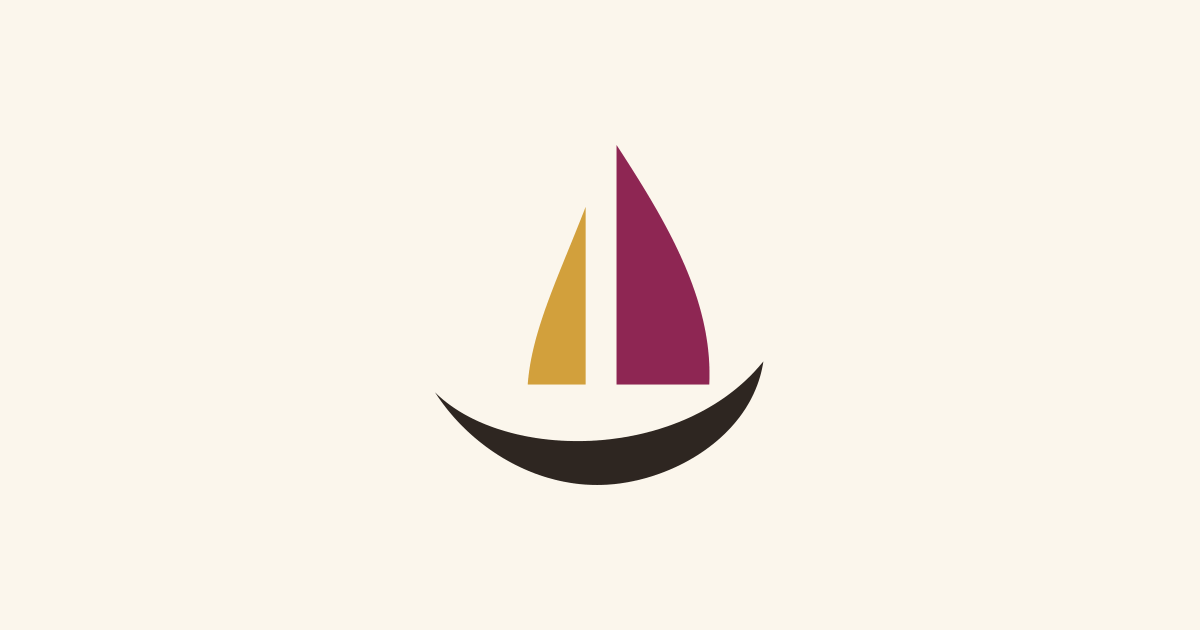
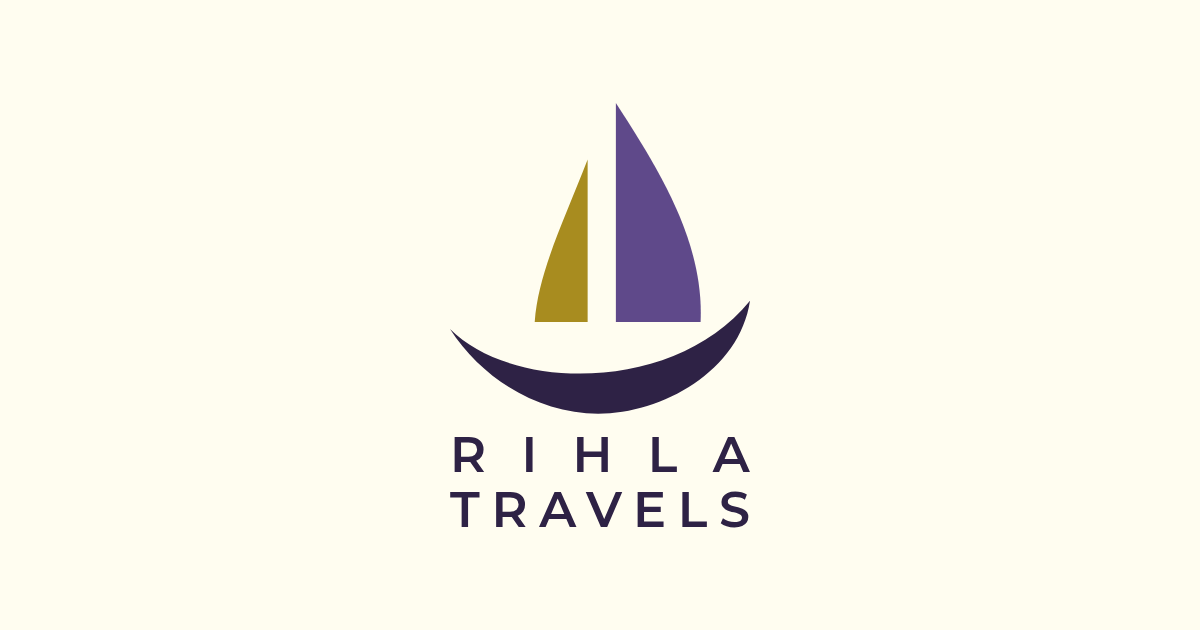
Bring the share card into the brand, and watch it from now on
public/images/rihla-social.png is what WhatsApp and Facebook render when
somebody pastes a link. For a business that sells through WhatsApp it is
seen far more often than the header, and it was still a wine-and-gold
dhoni on the retired cream: #8E2653, #D2A03C, #2E2621 on #FBF6EC, every
one of them a colour the rest of the site stopped using.

It is a raster, so the token swap could not reach it, and no test sampled
it. BrandColourTest scans text files and would never have seen it; the
only pixel-sampling test in the suite looks at the retired wordmark PNGs
for pre-rebrand blue and black. So this is the same shape as the offline
page and the stored banner colours — a copy of the palette somewhere the
sweep does not go — and the answer is the same one: a guard that reads
the actual bytes.

The card now carries the lockup rather than the bare mark. A preview
thumbnail is the one place the company name earns its space: the platform
shows the page title beside it in its own font, and the card is the only
part that is ours.

BrandMarkTest now reads every second pixel and fails on any retired
value, with the size pinned at 1200x630 because anything else gets
recropped by the platform. Verified by restoring the old card and
watching it report all four.

Claude-Session: https://claude.ai/code/session_01JoZgPLctB4zL5fwYVW7GBf

Changed region(s): [[0.37, 0.181, 0.6475, 0.8444]]

diff --git a/tests/Feature/BrandMarkTest.php b/tests/Feature/BrandMarkTest.php
@@ -73,6 +73,49 @@ class BrandMarkTest extends TestCase
         }
     }
 
+    /**
+     * The share card is the logo most people see, and nothing was watching it.
+     *
+     * `public/images/rihla-social.png` is what WhatsApp and Facebook render
+     * when somebody pastes a link — for a business that sells through
+     * WhatsApp, it is seen far more often than the header. It is a raster, so
+     * the palette swap could not reach it, and no test sampled it: it went on
+     * showing a wine-and-gold dhoni on the retired cream long after every
+     * other surface had moved. `BrandColourTest` scans text; a PNG needs its
+     * pixels read.
+     */
+    public function test_the_share_card_carries_the_current_brand(): void
+    {
+        $path = public_path('images/rihla-social.png');
+
+        $this->assertFileExists($path, 'There is no social preview image.');
+
+        $image = imagecreatefrompng($path);
+
+        $this->assertSame(1200, imagesx($image),
+            'Open Graph wants 1200x630; anything else is recropped by the platform.');
+        $this->assertSame(630, imagesy($image));
+
+        $retired = ['#8E2653', '#D2A03C', '#2E2621', '#FBF6EC', '#F4EDDF'];
+        $found = [];
+
+        for ($y = 0; $y < 630; $y += 2) {
+            for ($x = 0; $x < 1200; $x += 2) {
+                $rgb = imagecolorat($image, $x, $y);
+                $hex = sprintf('#%02X%02X%02X', ($rgb >> 16) & 0xFF, ($rgb >> 8) & 0xFF, $rgb & 0xFF);
+
+                if (in_array($hex, $retired, true)) {
+                    $found[$hex] = true;
+                }
+            }
+        }
+
+        imagedestroy($image);
+
+        $this->assertSame([], array_keys($found),
+            'The share card still paints retired brand colours: '.implode(', ', array_keys($found)));
+    }
+
     /** Every icon the layout or the manifest names must actually exist. */
     public function test_every_declared_icon_exists_and_is_the_size_it_claims(): void
     {
